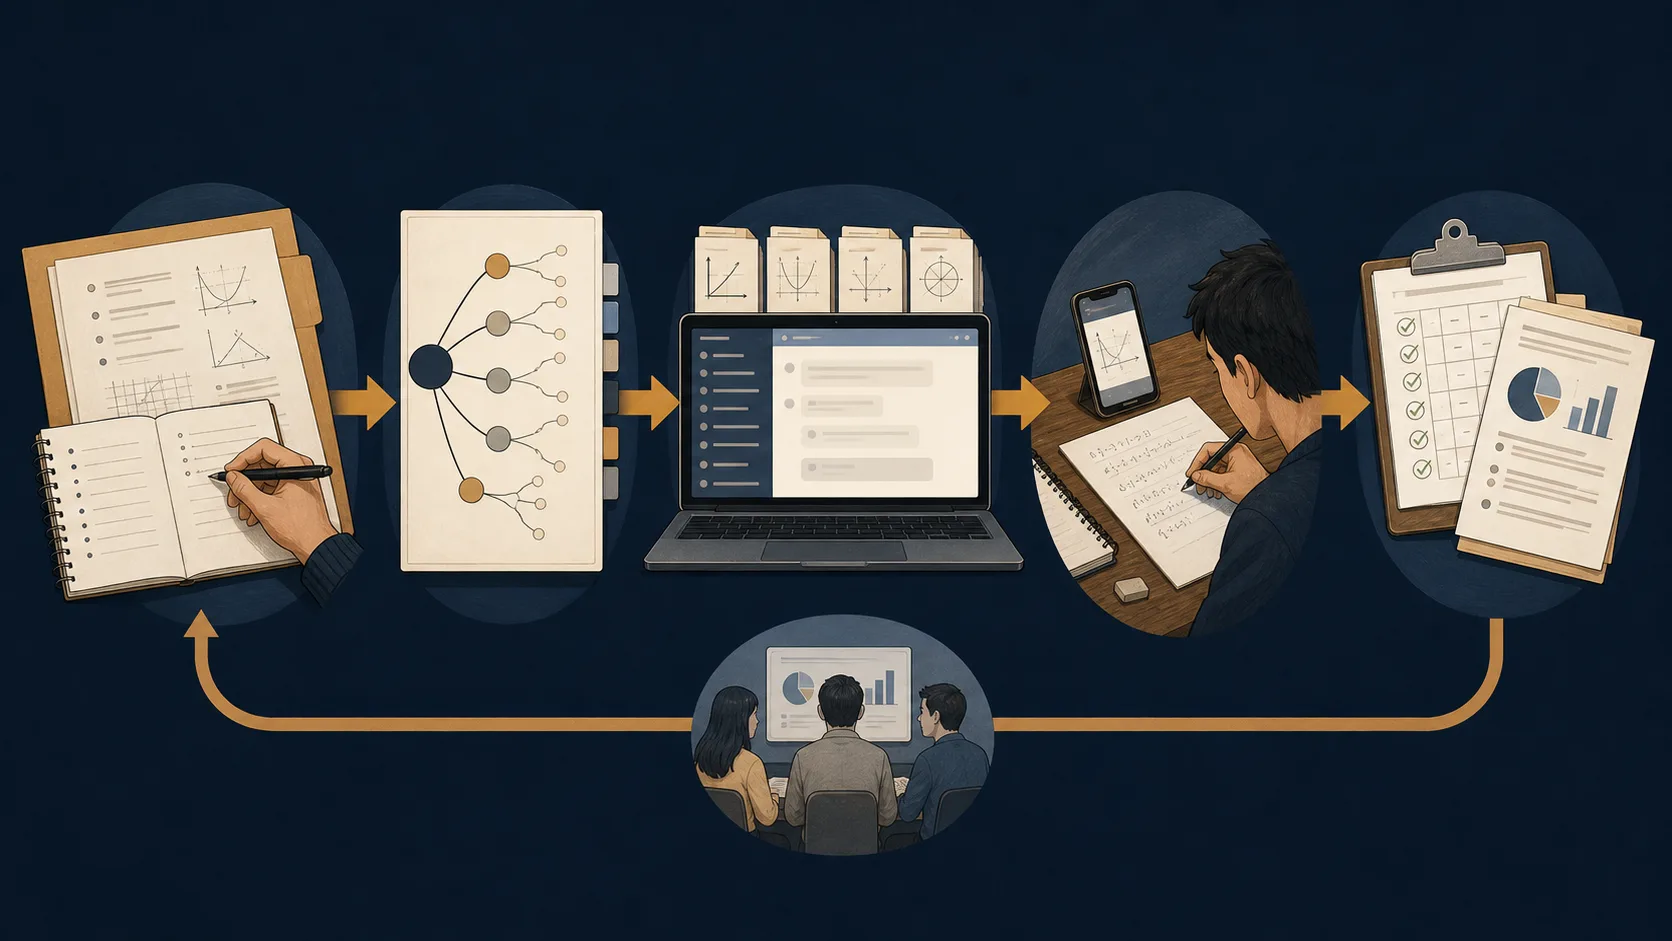
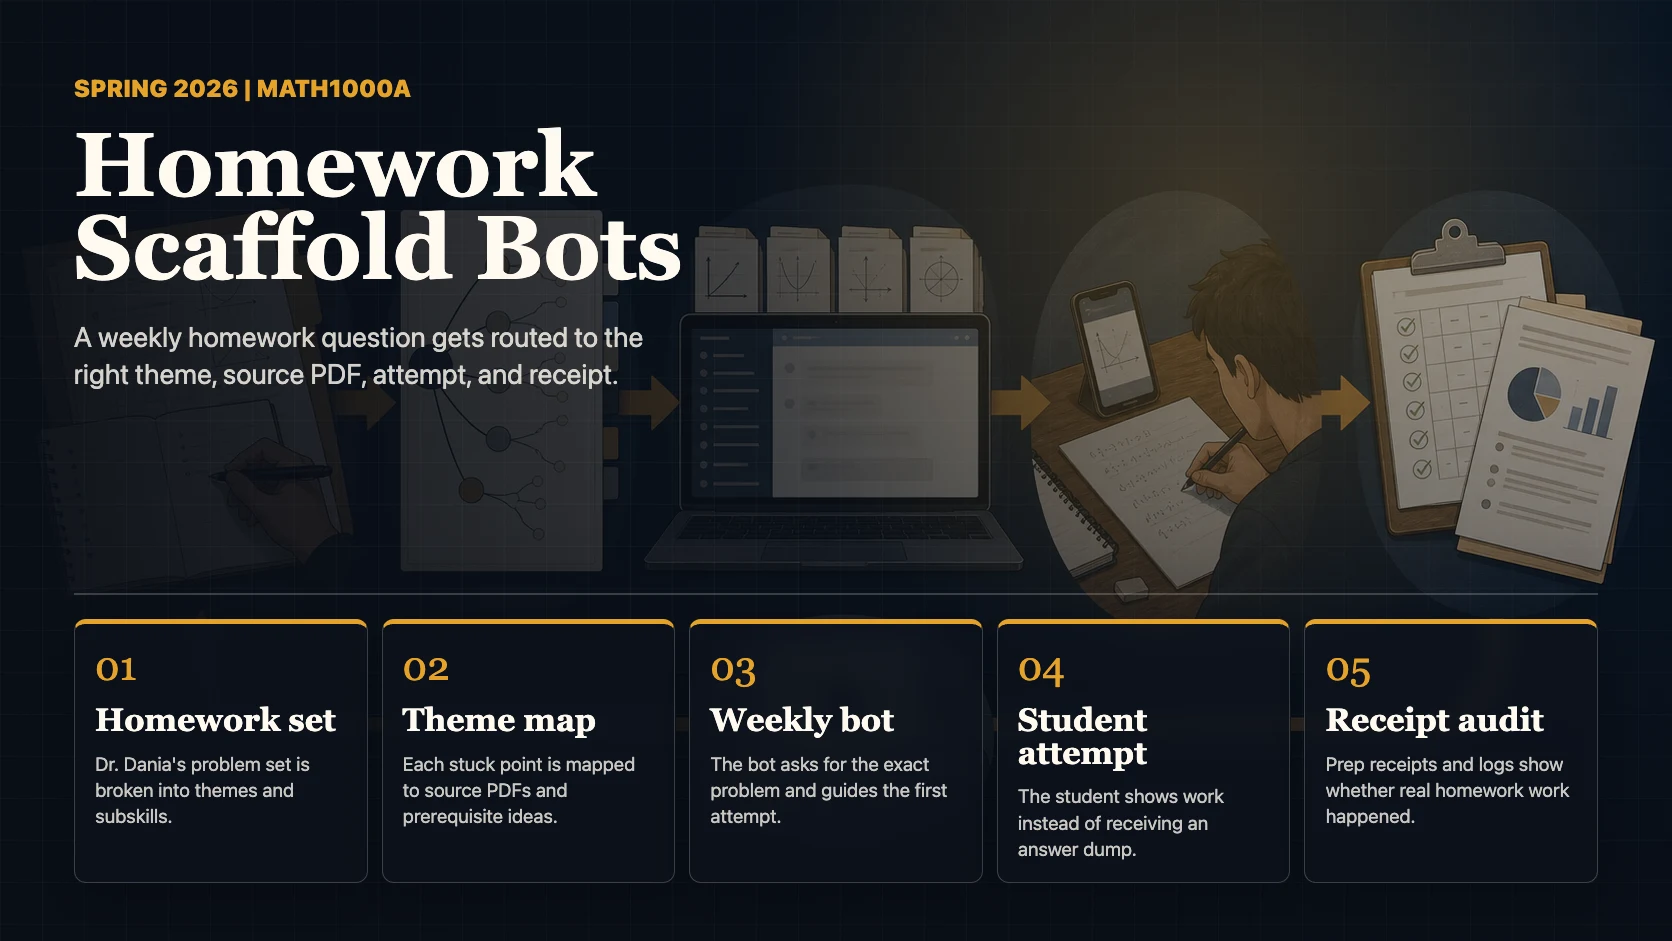
Replace workflow visuals with labeled infographics

diff --git a/lib/implementations.ts b/lib/implementations.ts
@@ -17,6 +17,7 @@ export type Implementation = {
   lessons: string[]
   workflowHero: {
     image: string
+    mobileImage: string
     alt: string
     steps: string[]
   }
@@ -76,6 +77,7 @@ export const implementations: Implementation[] = [
     ],
     workflowHero: {
       image: "/images/workflow-heroes/summer-2025-local-pilot.webp",
+      mobileImage: "/images/workflow-heroes/summer-2025-local-pilot-mobile.webp",
       alt: "Workflow illustration showing course notes moving through a local model layer to student topic work, classroom math, and aggregate revision.",
       steps: ["Course notes", "Local model layer", "Student topic choice", "Classroom work", "Aggregate revision"],
     },
@@ -144,6 +146,7 @@ export const implementations: Implementation[] = [
     ],
     workflowHero: {
       image: "/images/workflow-heroes/spring-2026-matha-homework-scaffold.webp",
+      mobileImage: "/images/workflow-heroes/spring-2026-matha-homework-scaffold-mobile.webp",
       alt: "Workflow illustration showing a homework set, theme map, weekly bot, student attempt, and receipt audit loop.",
       steps: ["Homework set", "Theme map", "Weekly bot", "Student attempt", "Receipt audit"],
     },
@@ -213,6 +216,7 @@ export const implementations: Implementation[] = [
     ],
     workflowHero: {
       image: "/images/workflow-heroes/spring-2026-mathb-delayed-access-study.webp",
+      mobileImage: "/images/workflow-heroes/spring-2026-mathb-delayed-access-study-mobile.webp",
       alt: "Workflow illustration showing consent and course files splitting into early and delayed access groups before common assessments and de-identified analysis.",
       steps: ["Consent + files", "Early/delayed timing", "Socratic bot access", "AI-free assessments", "De-identified analysis"],
     },
@@ -283,6 +287,7 @@ export const implementations: Implementation[] = [
     ],
     workflowHero: {
       image: "/images/workflow-heroes/summer-2026-matha-prose.webp",
+      mobileImage: "/images/workflow-heroes/summer-2026-matha-prose-mobile.webp",
       alt: "Workflow illustration showing the Summer PROSE cycle from prep-only materials to no-AI class work, autopsy repair, portfolio work, and daily audit.",
       steps: ["Prep-only materials", "Prep receipt", "No-AI class work", "Autopsy repair", "Daily audit"],
     },

diff --git a/app/globals.css b/app/globals.css
@@ -1088,16 +1088,16 @@ h3 {
 }
 
 .detail-hero {
-  min-height: 82svh;
+  min-height: auto;
   display: grid;
-  grid-template-columns: minmax(0, 0.78fr) minmax(440px, 0.9fr);
-  gap: clamp(42px, 6vw, 92px);
-  align-items: center;
+  grid-template-columns: 1fr;
+  gap: 48px;
+  align-items: start;
   padding: 128px 64px 76px;
 }
 
 .detail-hero-copy {
-  max-width: 920px;
+  max-width: 860px;
   animation: rise 720ms ease-out both;
 }
 
@@ -1115,6 +1115,9 @@ h3 {
 }
 
 .workflow-hero-figure {
+  position: relative;
+  width: min(100%, 1240px);
+  justify-self: center;
   margin: 0;
   overflow: hidden;
   border: 1px solid rgba(255, 250, 241, 0.18);
@@ -1126,8 +1129,7 @@ h3 {
 
 .workflow-hero-figure img {
   width: 100%;
-  aspect-ratio: 16 / 9;
-  object-fit: cover;
+  height: auto;
 }
 
 .workflow-hero-figure figcaption {
@@ -1157,6 +1159,18 @@ h3 {
   font-family: var(--font-serif), Georgia, serif;
   font-size: 1.08rem;
   line-height: 1;
+}
+
+.workflow-hero-caption {
+  position: absolute;
+  width: 1px;
+  height: 1px;
+  padding: 0;
+  border: 0;
+  overflow: hidden;
+  clip: rect(0 0 0 0);
+  clip-path: inset(50%);
+  white-space: nowrap;
 }
 
 .hero-workflow-map {

diff --git a/app/implementations/[slug]/page.tsx b/app/implementations/[slug]/page.tsx
@@ -61,8 +61,11 @@ export default async function ImplementationPage({ params }: PageProps) {
           <p>{implementation.subtitle}</p>
         </div>
         <figure className="workflow-hero-figure">
-          <img src={implementation.workflowHero.image} alt={implementation.workflowHero.alt} />
-          <figcaption>
+          <picture>
+            <source media="(max-width: 700px)" srcSet={implementation.workflowHero.mobileImage} />
+            <img src={implementation.workflowHero.image} alt={implementation.workflowHero.alt} />
+          </picture>
+          <figcaption className="workflow-hero-caption">
             {implementation.workflowHero.steps.map((step, index) => (
               <span key={step}>
                 <small>{String(index + 1).padStart(2, "0")}</small>
